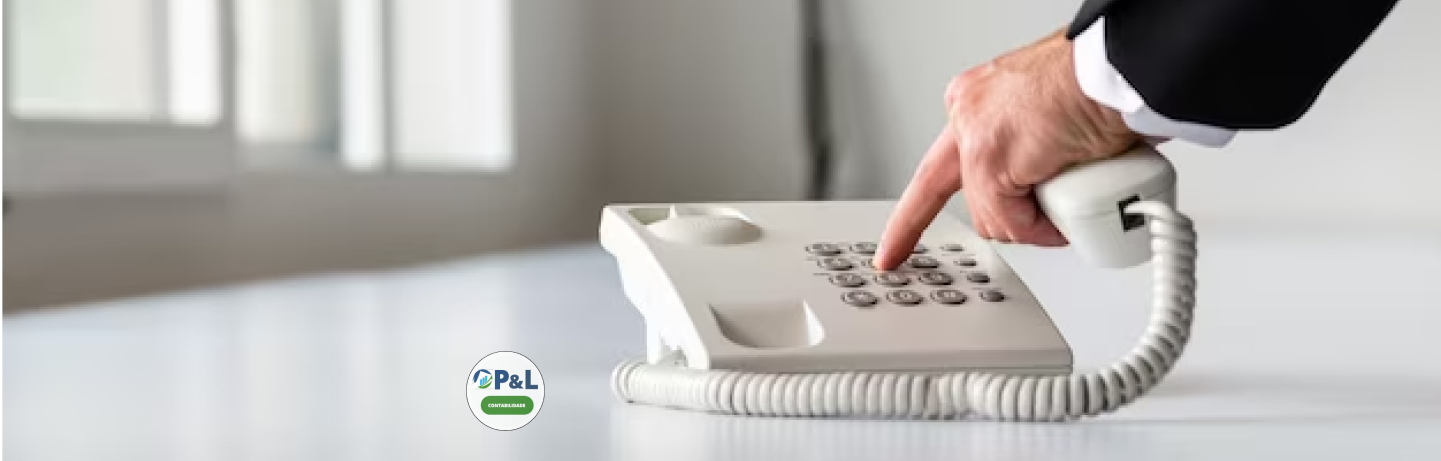
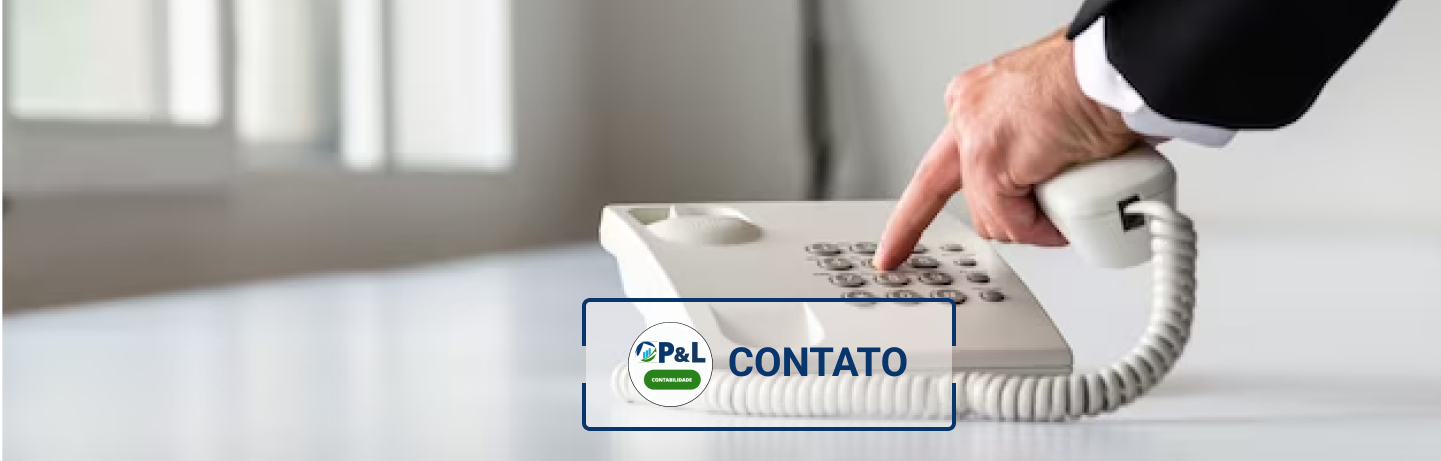
trocado imagem da página de contao e serviços

Changed region(s): [[0.3123, 0.6377, 0.687, 0.9414]]

diff --git a/src/pages/services/index.js b/src/pages/services/index.js
@@ -3,8 +3,8 @@ import "./index.css";
 
 const Services = () => {
   return (
-    <Layout slides={["images/images2.jpeg"]}>
-      ola mundo
+    <Layout slides={["images/slider/servico.png"]}>
+      <h1>Conheça nossos serviços!</h1>
 
     </Layout>
    
